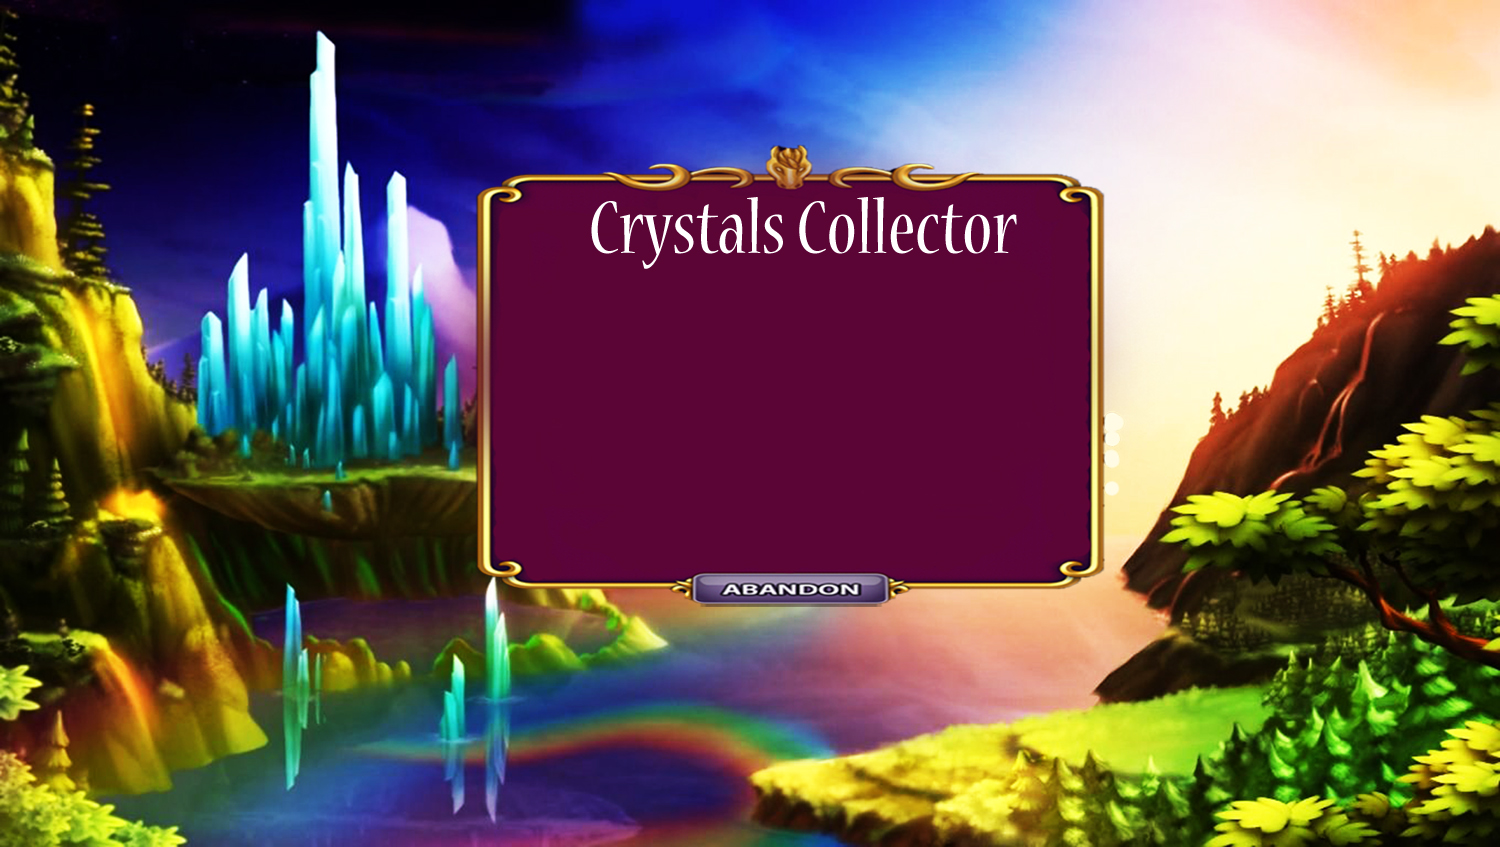
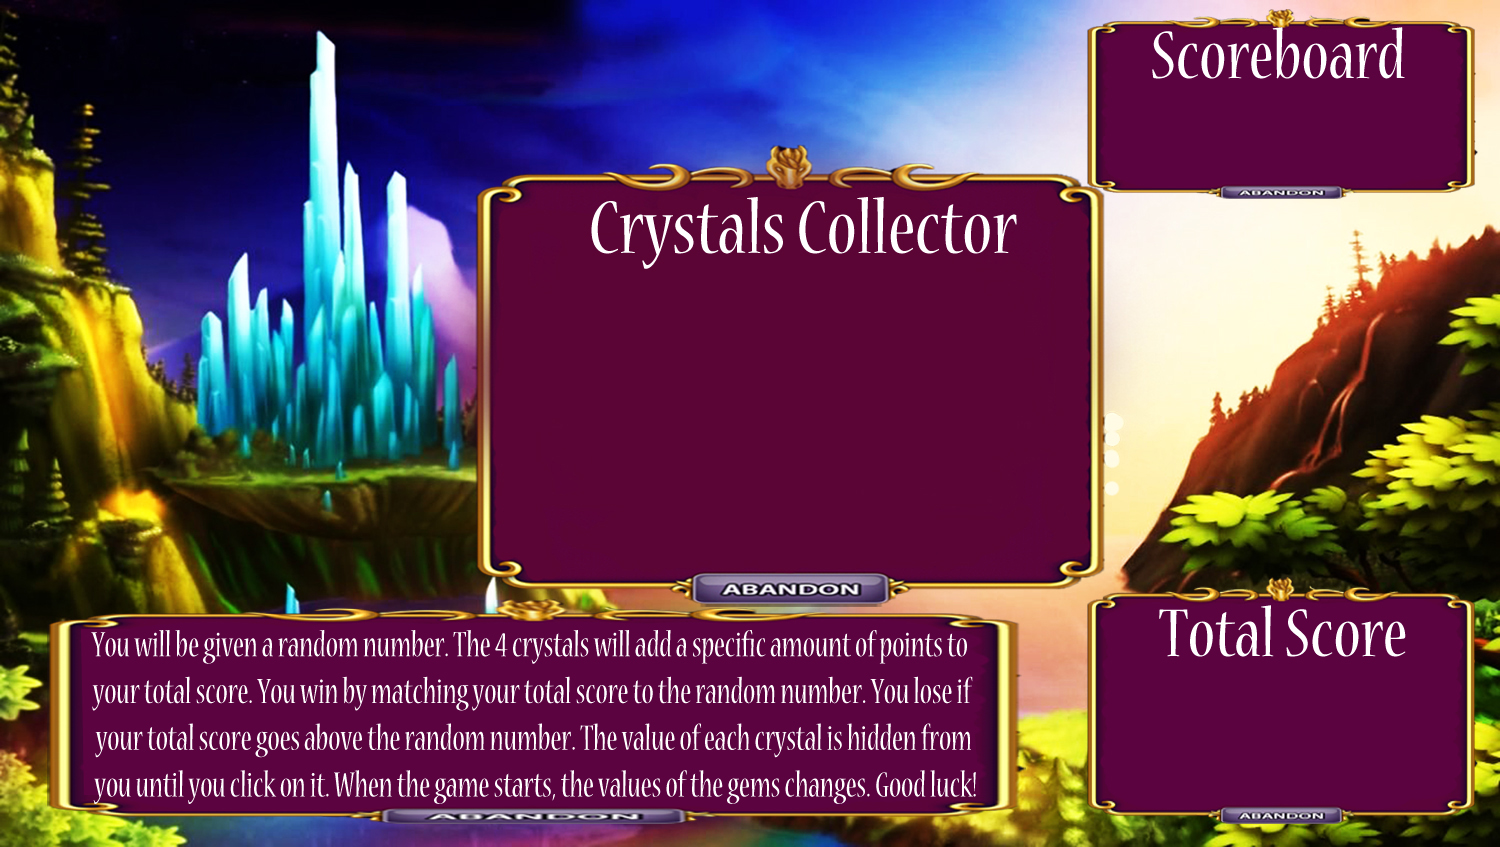
Corrected broken link for Totalscore

Changed region(s): [[0.0307, 0.6753, 1.0, 0.9823], [0.7053, 0.0, 1.0, 0.2456]]

diff --git a/assets/javascript/game.js b/assets/javascript/game.js
@@ -1,37 +1,41 @@
 $(document).ready(function () {
 
-    // Add a specific amount of points to the player's total score.
+    // Variables declared and adds points to the player's total score.
     var wins = 0;
     var losses = 0;
 
     var computerGuess;
-    var userGuess;
+    var totalScore;
+ 
 
     var bluegem;
     var orangegem;
     var guitargem;
     var glovegem;
 
-    var totalScore;
+    
+    
 
     // The player will be shown a random number at the start of the game.
 
     function initGame() {
 
-        totalScore = 0;
-
         computerGuess = Math.floor(Math.random() * (120 - 19) + 19);
-        console.log(computerGuess);
+        
 
     // Each crystal should have a random hidden value between 1 - 12.
+
         bluegem = Math.floor(Math.random() * 12) + 1;
         orangegem = Math.floor(Math.random() * 12) + 1;
         guitargem = Math.floor(Math.random() * 12) + 1;
         glovegem = Math.floor(Math.random() * 12) + 1;
+        
 
 
-        $("#user-score").text(userGuess);
+        $("#butt1").text(totalScore);
         $("#butt2").text(computerGuess);
+
+        totalScore = 0;
 
     }
     initGame();
@@ -42,9 +46,55 @@ $(document).ready(function () {
         $("#random-button").on("click", function () {
 
             computerGuess = Math.floor(Math.random() * (120 - 19) + 19);
-        })
-    };
-    
+        })};
+
+
+    // The logic for buttons and their functions below this line
+
+    function gameButtonsLogic() {
+        $("#bluegem").click(function () {
+            totalScore += bluegem;
+            $("#butt1").text(totalScore);
+            gameLogic();
+            
+        });
+
+        $("#glovegem").on("click", function () {
+            totalScore += glovegem;
+            $("#butt1").text(totalScore);
+            gameLogic();
+            
+        });
+
+        $("#orangegem").on("click", function () {
+            totalScore += orangegem;
+            $("#butt1").text(totalScore);
+            gameLogic();
+            
+        });
+
+        $("#guitargem").on("click", function () {
+            totalScore += guitargem;
+            $("#butt1").text(totalScore);
+            gameLogic();
+            
+        })};
+        gameButtonsLogic();
+
+    // Conditions of the game and scoreboawrd updates below this line
+        function gameLogic() {
+            if (totalScore === computerGuess) {
+                wins++;
+                $("#wins-text").text(wins);                
+                initGame();              
+            }
+            else if (totalScore > computerGuess) {
+                losses++;
+                $("#losses-text").text(losses);
+                initGame();
+            }
+        };
+
 
 
 });

diff --git a/index.html b/index.html
@@ -18,14 +18,16 @@
 
 
   <section class="container">
-
-
     <div class="col-md-12 jumbotron">
       <!--Scoreboard below this line-->
-        <div id="scoreboard">
-            <p>Wins:<span id="wins-text"></span></p>
-            <p>Losses:<span id="losses-text"></span></p>
-          </div>
+      <div class="score-wrapper clearfix">
+        <div class="scoreboard">
+          <p>Wins:<span id="wins-text"></span></p>
+          <p>Losses:<span id="losses-text"></span></p>
+        </div>
+      </div>
+
+
 
       <!--Game buttons below this line-->
       <div class="wrapper">
@@ -36,17 +38,15 @@
           <img id="guitargem" src="../unit-4-game/assets/images/guitar.png" width="75px" height="75px" alt="Guitar Jem">
         </div>
       </div>
-      <!--Random button generator under this line-->
-        <button id="random-button" class="btn btn-primary btn-lg"><h1><span id="butt2">?</span></h1></button>
 
+      <!--Random & Total score generator under this line-->
+      <button id="random-button" class="btn btn-primary btn-lg">
+        <h1><span id="butt2">?</span></h1>
+      </button>
 
-      <!--Total score below this line-->  
-
-
-      <!--Conditions of the game below this line-->  
-
-      <!--Game rules under this line-->
-
+      <button id="total-score" class="btn btn-success btn-lg">
+        <h1><span id="butt1">0</span></h1>
+      </button>
 
 
   </section>

diff --git a/assets/css/style.css b/assets/css/style.css
@@ -5,23 +5,30 @@ html, body {
 }
 
 p {
-    font-size: 30px;
-    font-family: Impact, Haettenschweiler, 'Arial Narrow Bold', sans-serif;
-    color: darkslategrey;
-
+    font-size: 20px;
+    font-weight: bold;
+    font-family: 'Segoe UI', Tahoma, Geneva, Verdana, sans-serif;
+    color: white;
+    margin-top: -19px;
+    margin-bottom: auto;
+    margin-right: 50px;
 }
 
-#scoreboard {
+#butt2 {
+    font-size: 30px;
+}
+
+
+.score-wrapper {
     text-align: right;
     margin-right: 125px;
-    margin-top: -34px; 
+    margin-top: 0 auto;
 }
 
 #random-button {
     text-align: center;
-    position: fixed;
-    margin: -170px 530px 400px 520px;
-    
+    position: absolute;
+    margin: -170px 540px 400px 520px;
 }
 
 .jumbotron {
@@ -30,6 +37,7 @@ p {
     background-repeat: no-repeat;
     height: 625px;
     margin-top: 30px;
+    overflow-y: hidden;
   }
 
 .container {
@@ -44,6 +52,16 @@ p {
     display: inline-block;
     margin-top: 185px;
     margin-left: 50px;
+}
+
+#total-score {
+    position: absolute; 
+    visibility: visible; 
+    right: 110px; 
+    top: 500px; 
+    width: 110px;
+    height: 90px;
+    z-index: 200; 
 }
 
   @media screen and (min-width: 980px) {
